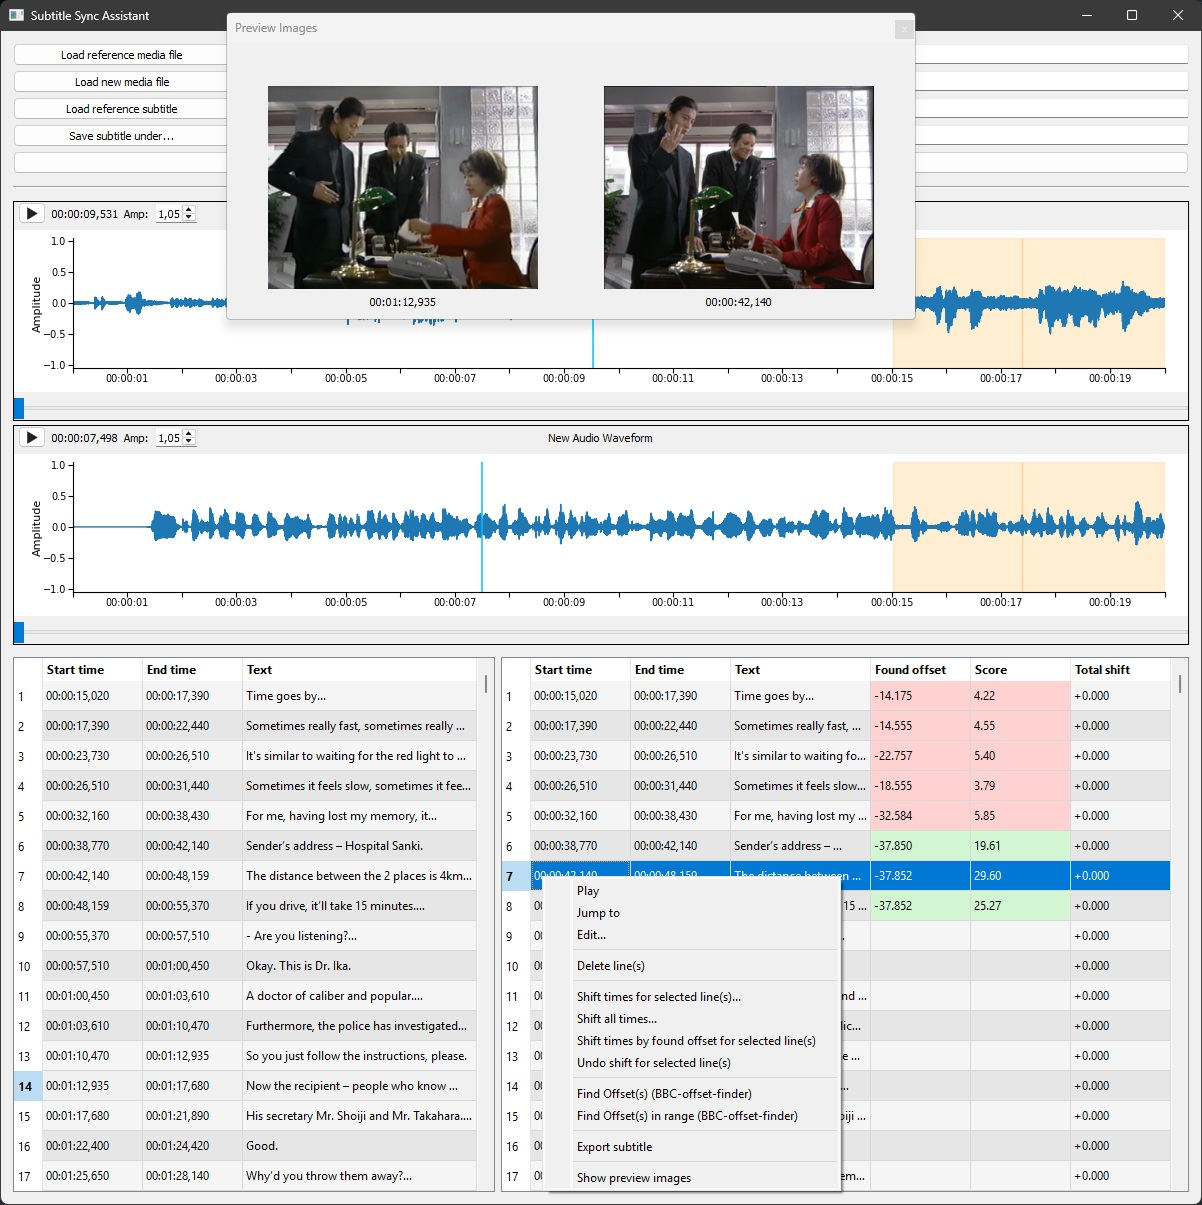
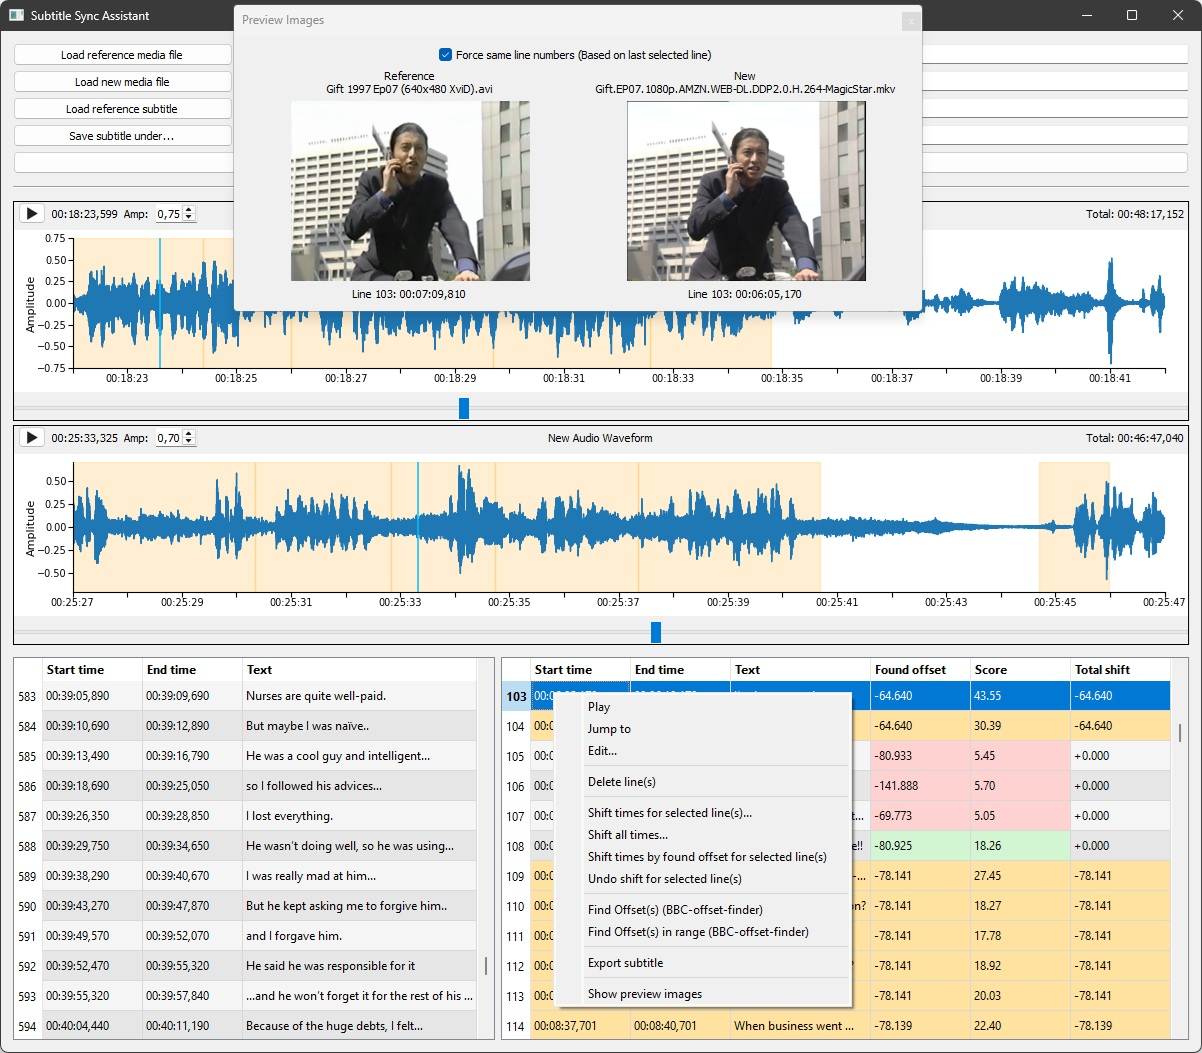
Added total length display to plot Added new screenshot

diff --git a/Subtitle Sync Assistant/ssa/ui/plot_widget.py b/Subtitle Sync Assistant/ssa/ui/plot_widget.py
@@ -101,7 +101,9 @@ class MatplotlibPlotWidget(QFrame):
 
         # Top bar: left control cluster + centered title + right spacer
         top_bar = QHBoxLayout(); top_bar.setContentsMargins(4, 0, 4, 0); top_bar.setSpacing(6)
-        left_controls = QWidget(self); lc_layout = QHBoxLayout(left_controls); lc_layout.setContentsMargins(0, 0, 0, 0); lc_layout.setSpacing(6)
+        # Left controls
+        left_controls = QWidget(self)
+        lc_layout = QHBoxLayout(left_controls); lc_layout.setContentsMargins(0, 0, 0, 0); lc_layout.setSpacing(6)
 
         # Button with native style icons (robust to fonts)
         self.play_btn = QPushButton("", self)
@@ -121,15 +123,37 @@ class MatplotlibPlotWidget(QFrame):
         self.amp_spin.setToolTip("Adjust vertical zoom (does not alter data).")
         self.amp_spin.valueChanged.connect(self._on_amp_changed)
 
-        lc_layout.addWidget(self.play_btn); lc_layout.addWidget(self.pos_lbl); lc_layout.addWidget(amp_lbl); lc_layout.addWidget(self.amp_spin)
+        lc_layout.addWidget(self.play_btn)
+        lc_layout.addWidget(self.pos_lbl)
+        lc_layout.addWidget(amp_lbl)
+        lc_layout.addWidget(self.amp_spin)
         top_bar.addWidget(left_controls)
+
+        # Centered title
         top_bar.addStretch()
-        self.label = QLabel(title, self); self.label.setAlignment(Qt.AlignCenter); self.label.setSizePolicy(QSizePolicy.Expanding, QSizePolicy.Preferred)
+        self.label = QLabel(title, self)
+        self.label.setAlignment(Qt.AlignCenter)
+        self.label.setSizePolicy(QSizePolicy.Expanding, QSizePolicy.Preferred)
         top_bar.addWidget(self.label)
         top_bar.addStretch()
-        # Keep the title centered by mirroring left_controls width on the right
-        right_phantom = QWidget(self); right_phantom.setFixedWidth(left_controls.sizeHint().width())
-        top_bar.addWidget(right_phantom)
+
+        # Right controls: total length
+        right_controls = QWidget(self)
+        rc_layout = QHBoxLayout(right_controls); rc_layout.setContentsMargins(0, 0, 0, 0); rc_layout.setSpacing(6)
+        self.total_lbl = QLabel("Total: --:--:--,---", self)
+        self.total_lbl.setToolTip("Total audio length")
+        self.total_lbl.setAlignment(Qt.AlignRight | Qt.AlignVCenter)
+        rc_layout.addWidget(self.total_lbl)
+        top_bar.addWidget(right_controls)
+
+        # Keep title centered by making left/right clusters same min width
+        try:
+            w = max(left_controls.sizeHint().width(), right_controls.sizeHint().width())
+            left_controls.setMinimumWidth(w)
+            right_controls.setMinimumWidth(w)
+        except Exception:
+            pass
+
         layout.addLayout(top_bar)
 
         # The actual plot canvas
@@ -174,6 +198,10 @@ class MatplotlibPlotWidget(QFrame):
             self.slider.setMaximum(0)
             self.slider.setEnabled(False)
         self.slider.setValue(0)
+
+        # Update total label (prefer audio_segment if present)
+        self._update_total_label()
+
         self._plot_window(0)
 
     def set_subtitle_intervals(self, intervals: List[Tuple[float, float]]):
@@ -204,16 +232,14 @@ class MatplotlibPlotWidget(QFrame):
         self._plot_window(start)
 
     def set_audio_segment(self, segment: AudioSegment):
-        """Attach the full-quality audio segment used for playback.
-
-        Note: We do not resample here; playback uses whatever the media
-        file provides. Only the plot uses the (possibly decimated) arrays.
-        """
+        """Attach the full-quality audio segment used for playback."""
         self.audio_segment = segment
         total = (len(segment) / 1000.0) if segment else 0.0
         if self.playhead_sec > total:
             self.playhead_sec = max(0.0, total - 0.001)
         self.pos_lbl.setText(self._format_hhmmss_mmm(self.playhead_sec))
+        # Update total label now that we have the exact media length
+        self._update_total_label()
 
     def stop_playback_external(self):
         """Stop playback when the other plot starts playing.
@@ -533,6 +559,15 @@ class MatplotlibPlotWidget(QFrame):
         if ms == 1000:
             ms = 0; s += 1
         return f"{h:02}:{m:02}:{s:02},{ms:03}"
+
+    def _update_total_label(self):
+        """Update the total length label on the top-right."""
+        total_sec = 0.0
+        if self.audio_segment is not None:
+            total_sec = len(self.audio_segment) / 1000.0
+        elif self.total_duration:
+            total_sec = float(self.total_duration)
+        self.total_lbl.setText(f"Total: {self._format_hhmmss_mmm(total_sec)}")
 
     def _set_playhead(self, sec: float, center_if_needed: bool = False):
         """Move the playhead to a specific time and optionally recenter view."""
